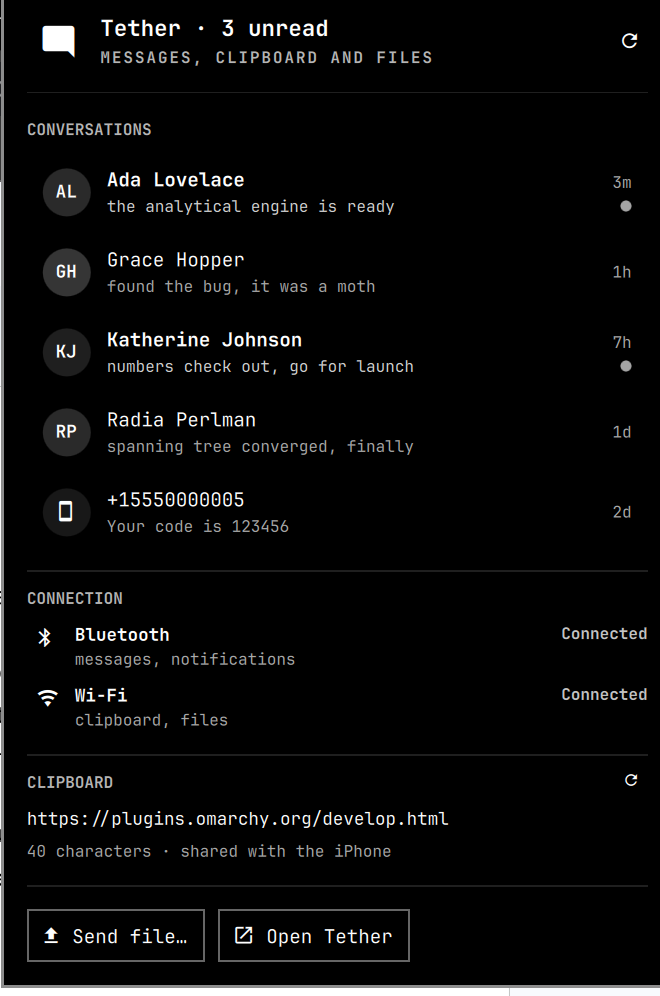
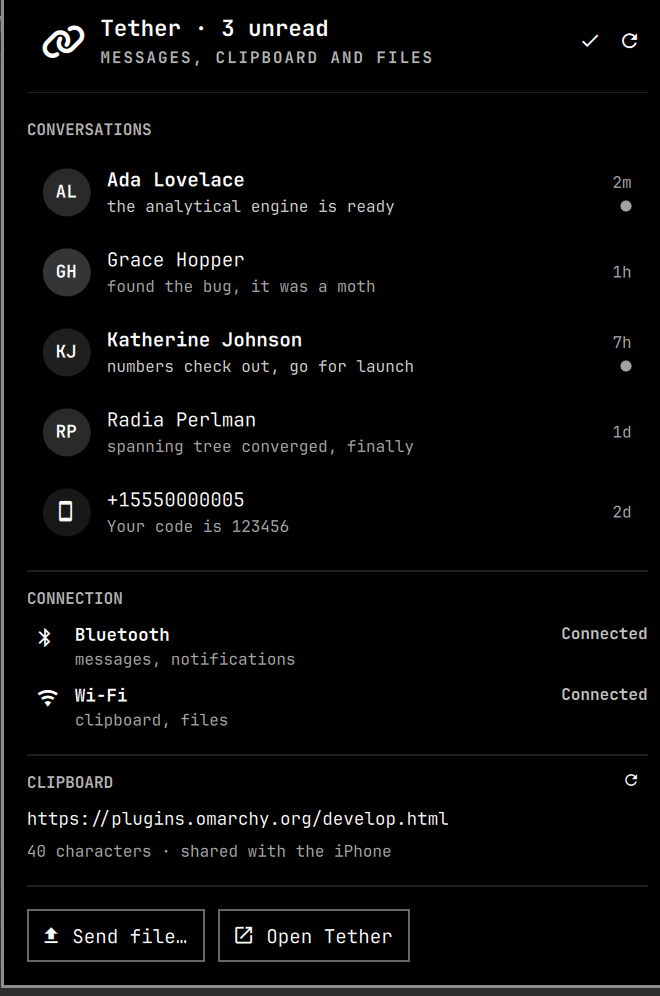
Add Mark all read, and wear Tether's own mark
The bar icon is now the interlocking-rings link Tether uses, not a speech
bubble. This is a face for Tether and the icon should say so; fa-link over
md-link-variant because its strokes survive 16px.

Mark all read exists because the unread flags cannot clear themselves. iOS
stops serving a message over MAP after about a day, and tetherd only refreshes
read state for messages a listing still returns — so anything read on the phone
after it left that window stays unread here for good. Measured on a real
mailbox: nine unread, all one to two days old, none still listed by the phone,
and ListMessages returning them was impossible. The daemon still marks them
read locally when the phone will not take the sync, which is the right outcome
for a message already read there.

Sweeps every unread thread, since only the open conversation's messages are in
memory. Also on IPC as 'omarchy-shell tether markAllRead'.

Changed region(s): [[0.0, 0.9649, 1.0, 1.0], [0.0606, 0.0, 0.1212, 0.0622], [0.8788, 0.0311, 0.9091, 0.0622]]

diff --git a/Panel.qml b/Panel.qml
@@ -213,6 +213,12 @@ Panel {
 
     function back(): void { root.goBack() }
 
+    // Clear every unread flag, for a keybinding or a script:
+    //   omarchy-shell tether markAllRead
+    function markAllRead(): void {
+      if (root.service) root.service.markAllRead()
+    }
+
     // Send a file without touching the picker, for a script or a keybinding:
     //   omarchy-shell tether sendFile ~/report.pdf
     function sendFile(path: string): void {
@@ -256,7 +262,7 @@ Panel {
           id: mark
           anchors.centerIn: parent
           textFormat: Text.PlainText
-          text: Model.GLYPH.bubble
+          text: Model.GLYPH.link
           color: button.glyphColor
           font.family: button.fontFamily
           font.pixelSize: button.fontSize
@@ -359,7 +365,7 @@ Panel {
         Item {
           id: hero
           width: parent.width
-          implicitHeight: Math.max(Style.space(34), heroLabels.implicitHeight, refreshButton.implicitHeight)
+          implicitHeight: Math.max(Style.space(34), heroLabels.implicitHeight, heroActions.implicitHeight)
 
           // Declared first so it sits under the controls: the whole header is
           // the way back, and the button on top of it keeps its own hover.
@@ -367,7 +373,7 @@ Panel {
             anchors.left: parent.left
             anchors.top: parent.top
             anchors.bottom: parent.bottom
-            anchors.right: refreshButton.left
+            anchors.right: heroActions.left
             enabled: root.inConversation
             visible: enabled
             cursorShape: Qt.PointingHandCursor
@@ -382,7 +388,7 @@ Panel {
             width: Style.space(34)
             horizontalAlignment: Text.AlignHCenter
             textFormat: Text.PlainText
-            text: Model.GLYPH.bubble
+            text: Model.GLYPH.link
             color: root.fg
             font.family: root.bar.fontFamily
             font.pixelSize: Style.font.display
@@ -405,23 +411,43 @@ Panel {
             onClicked: root.goBack()
           }
 
-          PanelActionButton {
-            id: refreshButton
+          Row {
+            id: heroActions
             anchors.right: parent.right
             anchors.verticalCenter: parent.verticalCenter
-            iconText: Model.GLYPH.refresh
-            tooltipText: "Refresh"
-            foreground: root.fg
-            hoverColor: root.fg
-            fontFamily: root.bar.fontFamily
-            onClicked: if (root.service) root.service.refresh()
+            spacing: Style.space(2)
+
+            // Those flags cannot clear themselves once the phone stops serving
+            // the messages, so this is the only way back to zero.
+            PanelActionButton {
+              visible: !root.inConversation && root.unread > 0
+              iconText: Model.GLYPH.check
+              tooltipText: root.service && root.service.markingAll
+                ? "Marking everything read…"
+                : "Mark all as read"
+              enabled: !(root.service && root.service.markingAll)
+              foreground: root.fg
+              hoverColor: root.fg
+              fontFamily: root.bar.fontFamily
+              onClicked: if (root.service) root.service.markAllRead()
+            }
+
+            PanelActionButton {
+              id: refreshButton
+              iconText: Model.GLYPH.refresh
+              tooltipText: "Refresh"
+              foreground: root.fg
+              hoverColor: root.fg
+              fontFamily: root.bar.fontFamily
+              onClicked: if (root.service) root.service.refresh()
+            }
           }
 
           Column {
             id: heroLabels
             anchors.left: parent.left
             anchors.leftMargin: Style.space(34) + Style.space(12)
-            anchors.right: refreshButton.left
+            anchors.right: heroActions.left
             anchors.rightMargin: Style.space(10)
             anchors.verticalCenter: parent.verticalCenter
             spacing: Style.space(2)

diff --git a/Service.qml b/Service.qml
@@ -73,6 +73,11 @@ Item {
   // re-send the same batch.
   property var markedRead: ({})
 
+  // Threads whose messages were fetched only so their unread handles could be
+  // marked. See markAllRead().
+  property var markAllPending: ({})
+  property bool markingAll: false
+
   readonly property var visibleThreads: Model.visibleThreads(allThreads, threadLimit)
   // Two transports, two states. Bluetooth carries messages and notifications;
   // Wi-Fi carries the clipboard and files. Either can be up alone.
@@ -145,6 +150,17 @@ Item {
     interval: 300
     repeat: false
     onTriggered: root.request({ "command": "state_snapshot" })
+  }
+
+  // A thread that never answers must not leave the sweep spinning.
+  Timer {
+    id: markAllTimeout
+    interval: 15000
+    repeat: false
+    onTriggered: {
+      root.markingAll = false
+      root.markAllPending = ({})
+    }
   }
 
   // A file goes out over the network to a phone that may be slow or gone.
@@ -285,10 +301,40 @@ Item {
   }
 
   function applyMessages(thread, list) {
-    if (String(thread || "") !== openThread) return
+    var key = String(thread || "")
+
+    // A sweep asked for this thread purely to learn its unread handles.
+    if (markAllPending[key]) {
+      var handles = Model.unreadHandles(Model.messageRows(list), markedRead)
+      if (handles.length > 0) rememberMarked(handles)
+      var remaining = ({})
+      var left = 0
+      for (var t in markAllPending) {
+        if (t === key) continue
+        remaining[t] = true
+        left++
+      }
+      markAllPending = remaining
+      if (left === 0) {
+        markingAll = false
+        markAllTimeout.stop()
+      }
+    }
+
+    if (key !== openThread) return
     messages = Model.messageRows(list)
     messagesLoading = false
     if (markReadOnOpen) markOpenThreadRead()
+  }
+
+  // Sends the batch and records it, so a later fetch of the same thread does
+  // not ask the phone to mark the same handles twice.
+  function rememberMarked(handles) {
+    if (!request({ "command": "bt_mark_read", "handles": handles, "read": true })) return
+    var next = ({})
+    for (var key in markedRead) next[key] = true
+    for (var i = 0; i < handles.length; i++) next[handles[i]] = true
+    markedRead = next
   }
 
   function onMessage(event) {
@@ -338,11 +384,31 @@ Item {
   function markOpenThreadRead() {
     var handles = Model.unreadHandles(messages, markedRead)
     if (handles.length === 0) return
-    if (!request({ "command": "bt_mark_read", "handles": handles, "read": true })) return
-    var next = ({})
-    for (var key in markedRead) next[key] = true
-    for (var i = 0; i < handles.length; i++) next[handles[i]] = true
-    markedRead = next
+    rememberMarked(handles)
+  }
+
+  // Clear every unread flag at once.
+  //
+  // This exists because the flags cannot clear themselves. iOS stops serving a
+  // message over MAP after a day or so, and tetherd only refreshes read state
+  // for messages a listing still returns — so anything read on the phone after
+  // it left that window stays unread here for good. Measured: nine unread, all
+  // of them 30-31 August, none still listed by the phone.
+  //
+  // The daemon marks them read locally even when the phone will not take the
+  // sync ("marked read on this computer only"), which is exactly right for
+  // messages already read on the phone.
+  function markAllRead() {
+    var keys = Model.unreadThreadKeys(allThreads)
+    if (keys.length === 0) return
+    var pending = ({})
+    for (var i = 0; i < keys.length; i++) {
+      pending[keys[i]] = true
+      request({ "command": "bt_list_messages", "thread": keys[i] })
+    }
+    markAllPending = pending
+    markingAll = true
+    markAllTimeout.restart()
   }
 
   function sendReply(body) {

diff --git a/tests/model.test.js b/tests/model.test.js
@@ -12,7 +12,7 @@ const Model = new Function(
   + "barTooltip, truthy, clampInt, toArray, isLocalHandle, GLYPH, "
   + "bluetoothState, wifiState, wifiReady, clipboardPreview, clipboardSummary, "
   + "fileSendResult, pickedPath, fileName, shortState, connectionSummary, "
-  + "clipboardAvailable, sentInvisible }"
+  + "clipboardAvailable, sentInvisible, unreadThreadKeys }"
 )()
 
 let failures = 0
@@ -91,6 +91,9 @@ const rows = Model.threadRows([
   { thread: "c", timestamp: 20, unread: 0 }
 ])
 check("threadRows sorts newest first", rows.map(r => r.key), ["b", "c", "a"])
+check("unreadThreadKeys finds only the unread ones", Model.unreadThreadKeys(rows), ["b"])
+check("unreadThreadKeys on an all-read list", Model.unreadThreadKeys([{ key: "a", unread: 0 }]), [])
+
 check("unreadTotal sums", Model.unreadTotal(rows), 2)
 check("unreadThreads counts", Model.unreadThreads(rows), 1)
 check("findThread finds", Model.findThread(rows, "c").key, "c")
@@ -287,8 +290,8 @@ check("toArray survives a non-list", Model.toArray(null), [])
 // ---- glyphs --------------------------------------------------------------
 // Above the BMP, so a "\uXXXX" escape cannot reach them and a surrogate slip
 // would ship a broken icon.
-check("bubble glyph is one codepoint", Array.from(Model.GLYPH.bubble).length, 1)
-check("bubble glyph codepoint", Model.GLYPH.bubble.codePointAt(0), 0xF0367)
+check("link glyph is one codepoint", Array.from(Model.GLYPH.link).length, 1)
+check("link glyph codepoint", Model.GLYPH.link.codePointAt(0), 0xF0C1)
 check("send glyph codepoint", Model.GLYPH.send.codePointAt(0), 0xF048A)
 
 if (failures === 0) console.log("all model tests pass")

diff --git a/Model.js b/Model.js
@@ -25,7 +25,11 @@ var LOCAL_ECHO_WINDOW = 300
 // written as fromCodePoint because they sit above the BMP, where a "\uXXXX"
 // escape cannot reach them.
 var GLYPH = {
-  bubble: String.fromCodePoint(0xF0367),   // nf-md-message
+  // Tether's own mark is two interlocking rings, so the bar wears a link
+  // rather than a speech bubble — this plugin is a face for Tether, and the
+  // icon should say so. fa-link over md-link-variant because its strokes
+  // survive 16px; the variant thins out into a vertical chain.
+  link: String.fromCodePoint(0xF0C1),      // nf-fa-link
   phone: String.fromCodePoint(0xF011C),    // nf-md-cellphone
   account: String.fromCodePoint(0xF0004),  // nf-md-account
   back: String.fromCodePoint(0xF0141),     // nf-md-chevron-left
@@ -183,6 +187,16 @@ function visibleThreads(rows, limit) {
   for (var i = 0; i < list.length; i++) {
     if (i < cap || (list[i].unread || 0) > 0) out.push(list[i])
   }
+  return out
+}
+
+// The threads a "mark all read" sweep has to visit. Their messages are not in
+// memory — only the open conversation's are — so each one has to be fetched
+// before its handles can be marked.
+function unreadThreadKeys(rows) {
+  var out = []
+  var list = toArray(rows)
+  for (var i = 0; i < list.length; i++) if ((list[i].unread || 0) > 0) out.push(list[i].key)
   return out
 }
 

diff --git a/README.md b/README.md
@@ -108,6 +108,7 @@ sent without the picker:
 
 ```bash
 omarchy-shell tether sendFile ~/report.pdf
+omarchy-shell tether markAllRead
 ```
 
 **The clipboard section** shows what the iPhone would receive if it asked for
@@ -122,6 +123,24 @@ change and stays silent. (Tether's own GTK app does have a Send Clipboard
 button; it sends a `clipboard_set` carrying no content, which the daemon drops
 on the floor.) Showing you what is shared is the honest version of that button,
 so that is what this does.
+
+## The unread count, and clearing it
+
+The check button in the panel header marks **everything** read at once. It only
+appears when something is unread.
+
+It exists because the unread flags cannot clear themselves. iOS stops serving a
+message over MAP after roughly a day, and tetherd only refreshes read state for
+messages a listing still returns — so anything you read on the phone *after* it
+fell out of that window stays unread here permanently. Measured on a real
+mailbox: nine unread, every one of them one to two days old, none of them still
+listed by the phone. Opening a conversation clears that thread; the header
+button clears the lot.
+
+Marking read is sent to the phone as well when it will take it. For messages
+this old it usually will not, and the daemon says so — *"marked read on this
+computer only"* — which is the right outcome for a message you already read
+there.
 
 ## Settings
 
@@ -153,6 +172,7 @@ omarchy-shell tether hide
 omarchy-shell tether back
 omarchy-shell tether openThread 'tel:+15551234567'
 omarchy-shell tether sendFile ~/report.pdf
+omarchy-shell tether markAllRead
 ```
 
 `openThread` jumps straight to one conversation, which makes a reasonable
@@ -229,6 +249,10 @@ every poll and files anything it gets, so a thread shows what the other person
 said plus anything sent from this machine, and nothing typed on the phone. The
 conversation view says so above the reply box rather than letting a
 half-conversation look like a bug. Nothing here or in Tether can fix it.
+
+**The unread count is too high, and the messages are old.** They were read on
+the phone after iOS stopped serving them, so their read state froze. Press the
+check button in the header — see *The unread count, and clearing it* above.
 
 **Conversations are listed but empty.** MAP is still syncing; give it a moment,
 or hit refresh.
